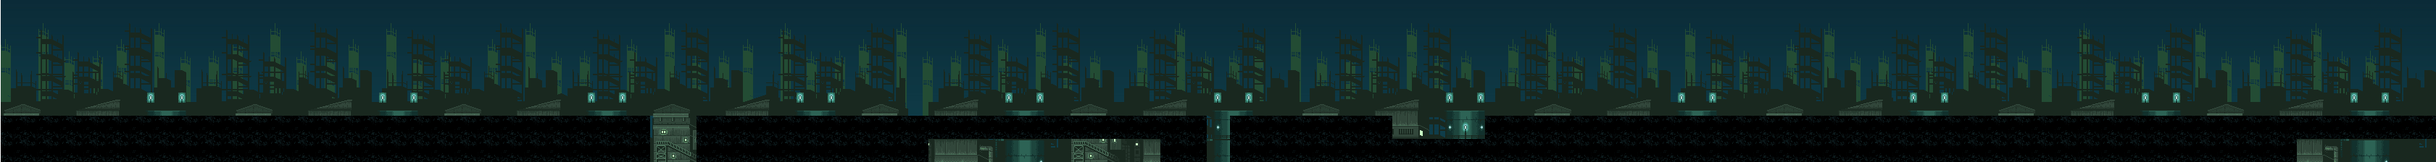
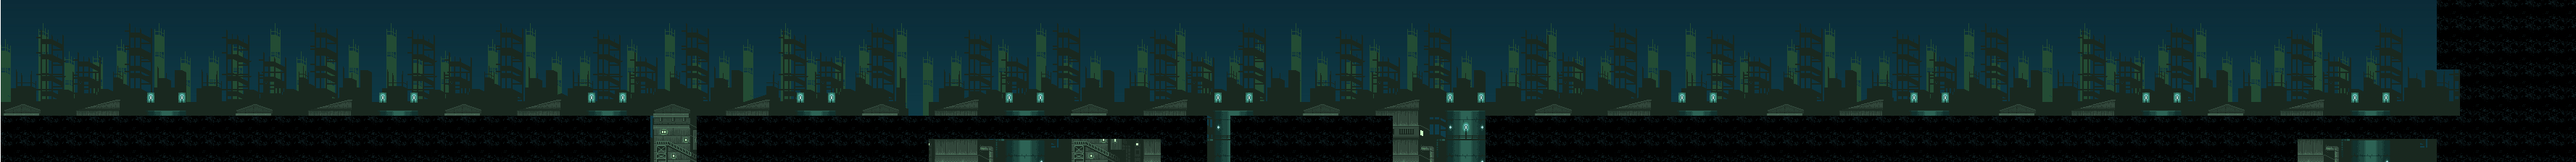
-edited the world map to fix some issues present and to make it look better when transitioning to the next level - removed a bounding box from map 1 - added bounding box to map 2

diff --git a/levels.js b/levels.js
@@ -4,13 +4,15 @@ const levelOne = {
     music:"music/1.mp3",
     label:"1",
     background: [{x: 0, y: 32, img: "backgrounds/random kontra level.png"}],
-    ground: [{x: 0, y: 515, w: 3585, h: 50}, {x: 3850, y: 515, w: 2800, h: 50}, {x: 6790, y: 515, w: 895, h: 50},
-        {x: 7685, y: 640, w: 530, h: 50}, {x: 8190, y: 515, w: 5231, h: 400}],
+    ground: [{x: 0, y: 515, w: 3585, h: 50},
+        {x: 3850, y: 515, w: 2800, h: 50},
+        {x: 6790, y: 515, w: 895, h: 50},
+        {x: 8190, y: 515, w: 5500, h: 400}],
     lance: [{x: 0, y: 0}],
     soldier: [{x: 1800, y: 349}, {x: 600, y: 349}, {x: 900, y: 349}, {x: 1500, y: 349}, {x: 1600, y: 349}, {x:1700, y: 349}, 
               {x: 4370, y: 349}, {x: 4470, y: 349}, {x: 4570, y: 349}, {x: 7000, y: 349}, {x: 7200, y: 349}, {x: 8800, y: 349}, 
               {x: 8900, y: 349}, {x: 9000, y: 349}, {x: 9100, y: 349}, {x: 11500, y: 349}, {x: 11900, y: 349}],
-    sniper: [{x: 1200, y: 349}, {x: 4100, y: 349}, {x: 6000, y: 349}, {x: 6400, y: 349}, {x: 7900, y: 504}, {x: 10600, y: 349}],
+    sniper: [{x: 1200, y: 349}, {x: 4100, y: 349}, {x: 6000, y: 349}, {x: 6400, y: 349}, {x: 10600, y: 349}],
     trigger: [{x: 13421, y: 0, fn: (that) => {ASSET_MANAGER.pauseBackgroundMusic();that.game.addEntity(new TransitionScreen(that.game, levelTwo, 0, 0, false, ));}}]
 };
 
@@ -29,9 +31,10 @@ const levelTwo = {
         {x: 2550, y: 540, w: 380, h: 50},
         {x: 5650, y: 730, w: 355, h: 50},
         {x: 5520, y: 210, w: 2000, h: 10},
-        {x: 7500, y: 350, w: 1000, h: 50},
+        {x: 7450, y: 350, w: 1000, h: 50},
         {x: 6050, y: 540, w: 190, h: 50},
         {x: 6420, y: 475, w: 840, h: 50},
+        {x: 7000, y: 730, w: 2000, h: 10},
         {x: 7690, y: 600, w: 250, h: 50},
         {x: 8060, y: 600, w: 250, h: 50},
         {x: 8190, y: 515, w: 5231, h: 400}],
